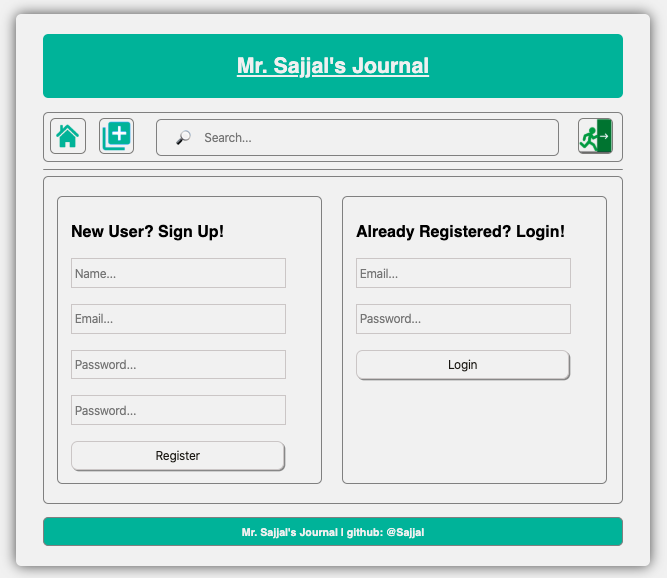
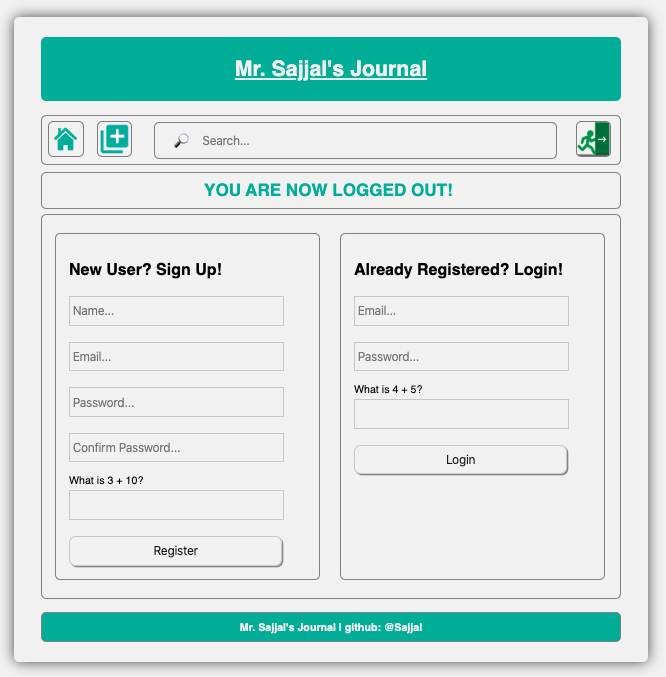
Added Client Side Form Validation

diff --git a/routes/authRouter.js b/routes/authRouter.js
@@ -4,19 +4,13 @@ const InvalidTokens = require("../model/Tokens");
 const bcrypt = require("bcryptjs");
 const jwt = require("jsonwebtoken");
 
-const { registrationValidation, loginValidation, } = require("../modules/validation");
-
 router.post("/register", async (req, res) => {
-  //Validate user entered data
-  const { error } = registrationValidation(req.body);
-  if (error) return res.status(400).render("login", { errors: error.details });
-
   //Check if user already Exists
   const userExists = await Users.findOne({ email: req.body.email });
   if (userExists)
-    return res.status(400).render("login", {
-      errors: [{ message: "Email already Exists! Try Log in!" }],
-    });
+    return res
+      .status(400)
+      .render("login", { message: "Email already Exists! Try Log in!" });
 
   //Hash the password
   const salt = await bcrypt.genSalt(10);
@@ -38,22 +32,24 @@ router.post("/register", async (req, res) => {
 });
 
 router.post("/login", async (req, res) => {
-  //Validate user entered data
-  const { error } = loginValidation(req.body);
-  if (error) return res.status(400).render("login", { errors: error.details });
-
   //Check if user is in DataBase
   const user = await Users.findOne({ email: req.body.email });
   if (!user)
-    return res.status(400).render("login", { errors: [{ message: "Invalid Email" }] });
+    return res
+      .status(400)
+      .render("login", { message: "Error: Invalid Email!" });
 
   //Check for valid password
   const validPassword = await bcrypt.compare(req.body.password, user.password);
   if (!validPassword)
-    return res.status(400).render("login", { errors: [{ message: "Invalid Password" }] });
+    return res
+      .status(400)
+      .render("login", { message: "Error: Invalid Password!" });
 
   //If everything is valid Create and assign a token. Token Expires in 12 hours
-  const accessToken = jwt.sign({ _id: user._id }, process.env.TOKEN_SECRET, { expiresIn: "43200s", });
+  const accessToken = jwt.sign({ _id: user._id }, process.env.TOKEN_SECRET, {
+    expiresIn: "43200s",
+  });
 
   //Save accessToken to Client's Browser Cookie and Redirect to Dashboard
   res.cookie("accessToken", accessToken).redirect("/dashboard");

diff --git a/public/css/style.css b/public/css/style.css
@@ -147,19 +147,6 @@ body {
   padding: 10px 0;
 }
 
-.error {
-  color: red;
-  border: 1px solid gray;
-  border-radius: 8px;
-  display: block;
-  padding: 10px 10px;
-  text-align: left;
-  text-transform: uppercase;
-  font-size: 1em;
-  padding-left: 10px 10px;
-  margin-bottom: 10px;
-}
-
 .posts {
   border: 1px solid #24ad97;
   padding: 10px 10px;
